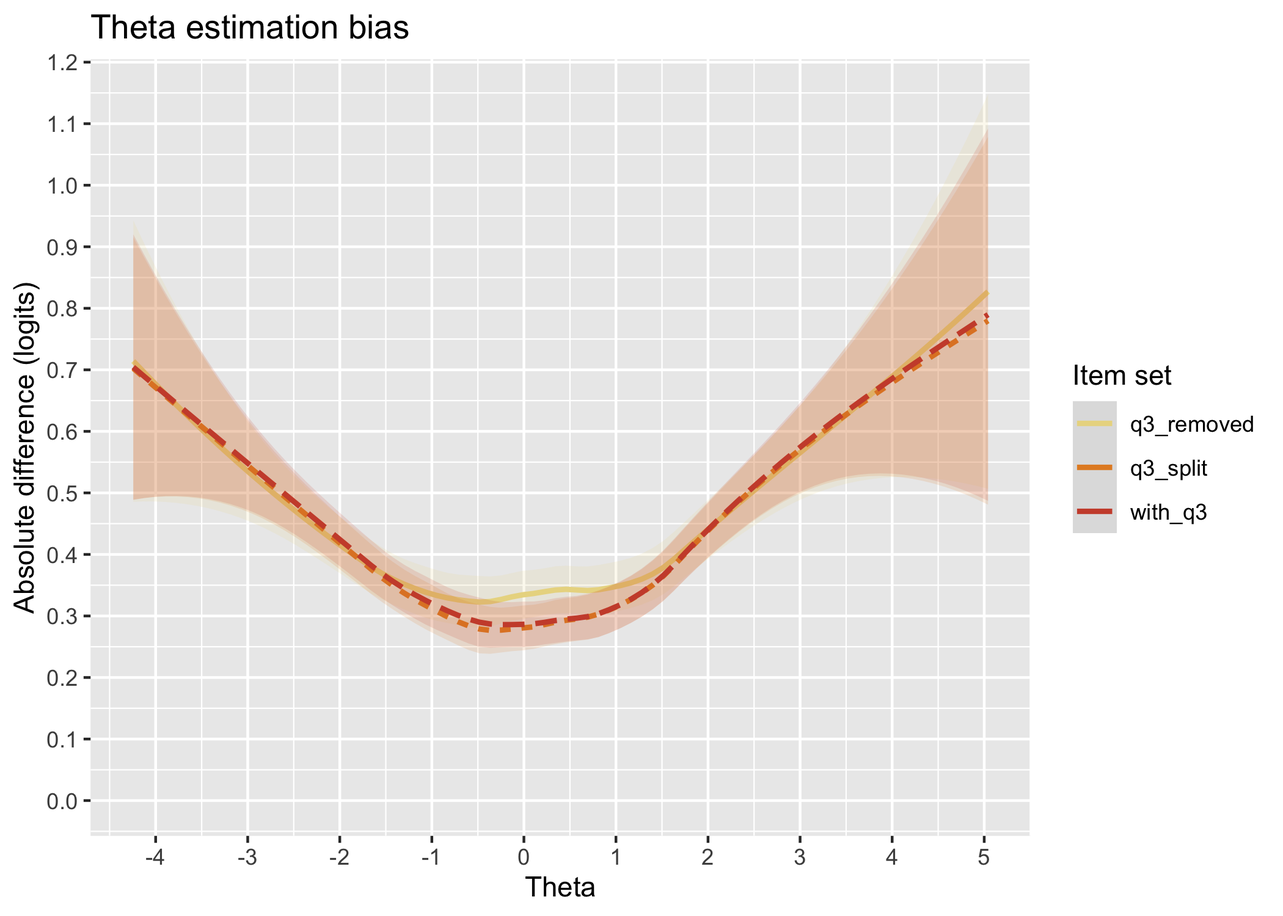
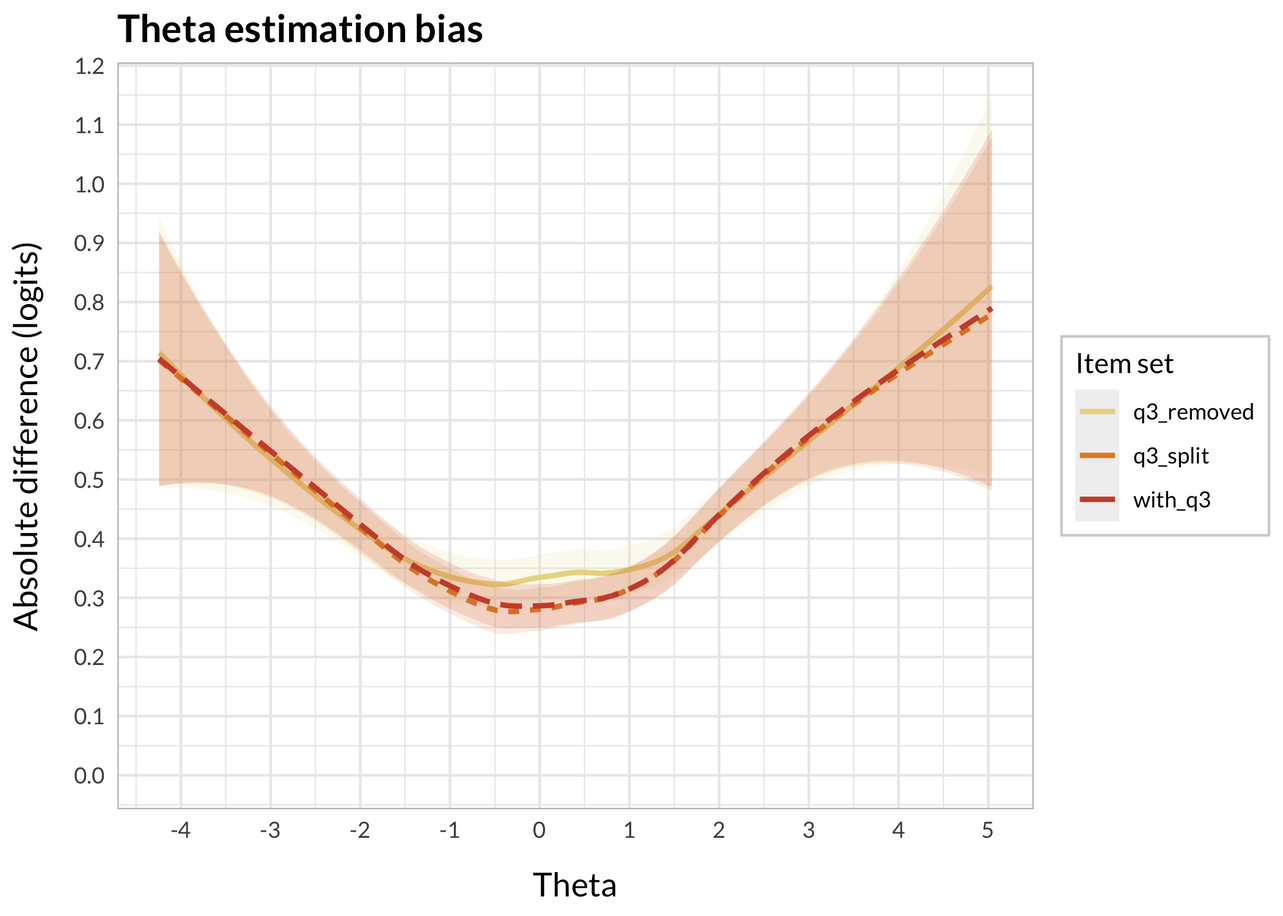
fig theme

diff --git a/docs/dif_magnitude.html b/docs/dif_magnitude.html
@@ -1985,7 +1985,8 @@ q10
 <span>       y <span class="op">=</span> <span class="st">"Absolute difference (logits)"</span><span class="op">)</span> <span class="op">+</span></span>
 <span>  <span class="fu"><a href="https://ggplot2.tidyverse.org/reference/guides.html">guides</a></span><span class="op">(</span>fill <span class="op">=</span> <span class="st">"none"</span>, linetype <span class="op">=</span> <span class="st">"none"</span><span class="op">)</span> <span class="op">+</span></span>
 <span>  <span class="fu"><a href="https://ggplot2.tidyverse.org/reference/scale_continuous.html">scale_x_continuous</a></span><span class="op">(</span>breaks <span class="op">=</span> <span class="fu"><a href="https://rdrr.io/r/base/seq.html">seq</a></span><span class="op">(</span><span class="op">-</span><span class="fl">5</span>,<span class="fl">5</span>,<span class="fl">1</span><span class="op">)</span><span class="op">)</span> <span class="op">+</span></span>
-<span>  <span class="fu"><a href="https://ggplot2.tidyverse.org/reference/scale_continuous.html">scale_y_continuous</a></span><span class="op">(</span>limits <span class="op">=</span> <span class="fu"><a href="https://rdrr.io/r/base/c.html">c</a></span><span class="op">(</span><span class="fl">0</span>,<span class="cn">NA</span><span class="op">)</span>, breaks <span class="op">=</span> <span class="fu"><a href="https://rdrr.io/r/base/seq.html">seq</a></span><span class="op">(</span><span class="fl">0</span>,<span class="fl">1.2</span>,<span class="fl">0.1</span><span class="op">)</span><span class="op">)</span></span></code><button title="Copy to Clipboard" class="code-copy-button"><i class="bi"></i></button></pre></div>
+<span>  <span class="fu"><a href="https://ggplot2.tidyverse.org/reference/scale_continuous.html">scale_y_continuous</a></span><span class="op">(</span>limits <span class="op">=</span> <span class="fu"><a href="https://rdrr.io/r/base/c.html">c</a></span><span class="op">(</span><span class="fl">0</span>,<span class="cn">NA</span><span class="op">)</span>, breaks <span class="op">=</span> <span class="fu"><a href="https://rdrr.io/r/base/seq.html">seq</a></span><span class="op">(</span><span class="fl">0</span>,<span class="fl">1.2</span>,<span class="fl">0.1</span><span class="op">)</span><span class="op">)</span> <span class="op">+</span></span>
+<span>  <span class="fu"><a href="https://rdrr.io/pkg/RISEkbmRasch/man/theme_rise.html">theme_rise</a></span><span class="op">(</span><span class="op">)</span></span></code><button title="Copy to Clipboard" class="code-copy-button"><i class="bi"></i></button></pre></div>
 </details><div class="cell-output-display">
 <div>
 <figure class="figure"><p><img src="dif_magnitude_files/figure-html/unnamed-chunk-30-1.png" class="img-fluid figure-img" width="1050"></p>
@@ -3268,78 +3269,79 @@ window.document.addEventListener("DOMContentLoaded", function (event) {
 <span id="cb48-674"><a href="#cb48-674" aria-hidden="true" tabindex="-1"></a>       <span class="at">y =</span> <span class="st">"Absolute difference (logits)"</span>) <span class="sc">+</span></span>
 <span id="cb48-675"><a href="#cb48-675" aria-hidden="true" tabindex="-1"></a>  <span class="fu">guides</span>(<span class="at">fill =</span> <span class="st">"none"</span>, <span class="at">linetype =</span> <span class="st">"none"</span>) <span class="sc">+</span></span>
 <span id="cb48-676"><a href="#cb48-676" aria-hidden="true" tabindex="-1"></a>  <span class="fu">scale_x_continuous</span>(<span class="at">breaks =</span> <span class="fu">seq</span>(<span class="sc">-</span><span class="dv">5</span>,<span class="dv">5</span>,<span class="dv">1</span>)) <span class="sc">+</span></span>
-<span id="cb48-677"><a href="#cb48-677" aria-hidden="true" tabindex="-1"></a>  <span class="fu">scale_y_continuous</span>(<span class="at">limits =</span> <span class="fu">c</span>(<span class="dv">0</span>,<span class="cn">NA</span>), <span class="at">breaks =</span> <span class="fu">seq</span>(<span class="dv">0</span>,<span class="fl">1.2</span>,<span class="fl">0.1</span>))</span>
-<span id="cb48-678"><a href="#cb48-678" aria-hidden="true" tabindex="-1"></a><span class="in">```</span></span>
-<span id="cb48-679"><a href="#cb48-679" aria-hidden="true" tabindex="-1"></a></span>
-<span id="cb48-680"><a href="#cb48-680" aria-hidden="true" tabindex="-1"></a>Item split slightly reduces bias compared to keeping the DIF item (3), while removing item 3 increases bias from -1.5 to +1.5</span>
-<span id="cb48-681"><a href="#cb48-681" aria-hidden="true" tabindex="-1"></a></span>
-<span id="cb48-682"><a href="#cb48-682" aria-hidden="true" tabindex="-1"></a><span class="fu">### Statistical analysis</span></span>
-<span id="cb48-683"><a href="#cb48-683" aria-hidden="true" tabindex="-1"></a></span>
-<span id="cb48-684"><a href="#cb48-684" aria-hidden="true" tabindex="-1"></a>Comparing differences in theta estimation to input thetas.</span>
-<span id="cb48-685"><a href="#cb48-685" aria-hidden="true" tabindex="-1"></a></span>
-<span id="cb48-688"><a href="#cb48-688" aria-hidden="true" tabindex="-1"></a><span class="in">```{r}</span></span>
-<span id="cb48-689"><a href="#cb48-689" aria-hidden="true" tabindex="-1"></a><span class="fu">library</span>(broom)</span>
-<span id="cb48-690"><a href="#cb48-690" aria-hidden="true" tabindex="-1"></a>lm_all <span class="ot">&lt;-</span> c <span class="sc">%&gt;%</span> </span>
-<span id="cb48-691"><a href="#cb48-691" aria-hidden="true" tabindex="-1"></a>  <span class="fu">select</span>(<span class="fu">c</span>(together_RIestThetas,input_thetas)) <span class="sc">%&gt;%</span></span>
-<span id="cb48-692"><a href="#cb48-692" aria-hidden="true" tabindex="-1"></a>  <span class="fu">pivot_longer</span>(<span class="fu">everything</span>()) <span class="sc">%&gt;%</span> </span>
-<span id="cb48-693"><a href="#cb48-693" aria-hidden="true" tabindex="-1"></a>  <span class="fu">lm</span>(value <span class="sc">~</span> name, <span class="at">data =</span> .)</span>
-<span id="cb48-694"><a href="#cb48-694" aria-hidden="true" tabindex="-1"></a></span>
-<span id="cb48-695"><a href="#cb48-695" aria-hidden="true" tabindex="-1"></a>lm_q3rem <span class="ot">&lt;-</span> c <span class="sc">%&gt;%</span> </span>
-<span id="cb48-696"><a href="#cb48-696" aria-hidden="true" tabindex="-1"></a>  <span class="fu">select</span>(<span class="fu">c</span>(together_q3_rem,input_thetas)) <span class="sc">%&gt;%</span></span>
-<span id="cb48-697"><a href="#cb48-697" aria-hidden="true" tabindex="-1"></a>  <span class="fu">pivot_longer</span>(<span class="fu">everything</span>()) <span class="sc">%&gt;%</span> </span>
-<span id="cb48-698"><a href="#cb48-698" aria-hidden="true" tabindex="-1"></a>  <span class="fu">lm</span>(value <span class="sc">~</span> name, <span class="at">data =</span> .)</span>
-<span id="cb48-699"><a href="#cb48-699" aria-hidden="true" tabindex="-1"></a></span>
-<span id="cb48-700"><a href="#cb48-700" aria-hidden="true" tabindex="-1"></a>lm_q3split <span class="ot">&lt;-</span> c <span class="sc">%&gt;%</span> </span>
-<span id="cb48-701"><a href="#cb48-701" aria-hidden="true" tabindex="-1"></a>  <span class="fu">select</span>(<span class="fu">c</span>(separate_catR,input_thetas)) <span class="sc">%&gt;%</span></span>
-<span id="cb48-702"><a href="#cb48-702" aria-hidden="true" tabindex="-1"></a>  <span class="fu">pivot_longer</span>(<span class="fu">everything</span>()) <span class="sc">%&gt;%</span> </span>
-<span id="cb48-703"><a href="#cb48-703" aria-hidden="true" tabindex="-1"></a>  <span class="fu">lm</span>(value <span class="sc">~</span> name, <span class="at">data =</span> .)</span>
-<span id="cb48-704"><a href="#cb48-704" aria-hidden="true" tabindex="-1"></a></span>
-<span id="cb48-705"><a href="#cb48-705" aria-hidden="true" tabindex="-1"></a><span class="fu">anova</span>(lm_all,lm_q3rem,lm_q3split)</span>
-<span id="cb48-706"><a href="#cb48-706" aria-hidden="true" tabindex="-1"></a></span>
-<span id="cb48-707"><a href="#cb48-707" aria-hidden="true" tabindex="-1"></a><span class="fu">bind_rows</span>(<span class="fu">glance</span>(lm_all),</span>
-<span id="cb48-708"><a href="#cb48-708" aria-hidden="true" tabindex="-1"></a>          <span class="fu">glance</span>(lm_q3rem),</span>
-<span id="cb48-709"><a href="#cb48-709" aria-hidden="true" tabindex="-1"></a>          <span class="fu">glance</span>(lm_q3split)) <span class="sc">%&gt;%</span> </span>
-<span id="cb48-710"><a href="#cb48-710" aria-hidden="true" tabindex="-1"></a>  <span class="fu">add_column</span>(<span class="at">Model =</span> <span class="fu">c</span>(<span class="st">"All items"</span>,<span class="st">"Q3 removed"</span>,<span class="st">"Q3 split"</span>)) <span class="sc">%&gt;%</span> </span>
-<span id="cb48-711"><a href="#cb48-711" aria-hidden="true" tabindex="-1"></a>  <span class="fu">select</span>(Model,statistic,p.value,logLik,AIC,BIC,deviance)</span>
-<span id="cb48-712"><a href="#cb48-712" aria-hidden="true" tabindex="-1"></a></span>
-<span id="cb48-713"><a href="#cb48-713" aria-hidden="true" tabindex="-1"></a><span class="in">```</span></span>
-<span id="cb48-714"><a href="#cb48-714" aria-hidden="true" tabindex="-1"></a></span>
-<span id="cb48-715"><a href="#cb48-715" aria-hidden="true" tabindex="-1"></a>Same analysis, but limited to the theta range from -1.5 to +1.5 logits, where differences seem the biggest.</span>
-<span id="cb48-716"><a href="#cb48-716" aria-hidden="true" tabindex="-1"></a></span>
-<span id="cb48-719"><a href="#cb48-719" aria-hidden="true" tabindex="-1"></a><span class="in">```{r}</span></span>
-<span id="cb48-720"><a href="#cb48-720" aria-hidden="true" tabindex="-1"></a>lm_all <span class="ot">&lt;-</span> c <span class="sc">%&gt;%</span> </span>
-<span id="cb48-721"><a href="#cb48-721" aria-hidden="true" tabindex="-1"></a>  <span class="fu">select</span>(<span class="fu">c</span>(together_RIestThetas,input_thetas)) <span class="sc">%&gt;%</span></span>
-<span id="cb48-722"><a href="#cb48-722" aria-hidden="true" tabindex="-1"></a>  <span class="fu">filter</span>(input_thetas <span class="sc">&gt;</span> <span class="sc">-</span><span class="fl">1.5</span> <span class="sc">&amp;</span> input_thetas <span class="sc">&lt;</span> <span class="fl">1.5</span>) <span class="sc">%&gt;%</span> </span>
-<span id="cb48-723"><a href="#cb48-723" aria-hidden="true" tabindex="-1"></a>  <span class="fu">pivot_longer</span>(<span class="fu">everything</span>()) <span class="sc">%&gt;%</span> </span>
-<span id="cb48-724"><a href="#cb48-724" aria-hidden="true" tabindex="-1"></a>  <span class="fu">lm</span>(value <span class="sc">~</span> name, <span class="at">data =</span> .)</span>
-<span id="cb48-725"><a href="#cb48-725" aria-hidden="true" tabindex="-1"></a></span>
-<span id="cb48-726"><a href="#cb48-726" aria-hidden="true" tabindex="-1"></a>lm_q3rem <span class="ot">&lt;-</span> c <span class="sc">%&gt;%</span> </span>
-<span id="cb48-727"><a href="#cb48-727" aria-hidden="true" tabindex="-1"></a>  <span class="fu">select</span>(<span class="fu">c</span>(together_q3_rem,input_thetas)) <span class="sc">%&gt;%</span></span>
-<span id="cb48-728"><a href="#cb48-728" aria-hidden="true" tabindex="-1"></a>  <span class="fu">filter</span>(input_thetas <span class="sc">&gt;</span> <span class="sc">-</span><span class="fl">1.5</span> <span class="sc">&amp;</span> input_thetas <span class="sc">&lt;</span> <span class="fl">1.5</span>) <span class="sc">%&gt;%</span> </span>
-<span id="cb48-729"><a href="#cb48-729" aria-hidden="true" tabindex="-1"></a>  <span class="fu">pivot_longer</span>(<span class="fu">everything</span>()) <span class="sc">%&gt;%</span> </span>
-<span id="cb48-730"><a href="#cb48-730" aria-hidden="true" tabindex="-1"></a>  <span class="fu">lm</span>(value <span class="sc">~</span> name, <span class="at">data =</span> .)</span>
-<span id="cb48-731"><a href="#cb48-731" aria-hidden="true" tabindex="-1"></a></span>
-<span id="cb48-732"><a href="#cb48-732" aria-hidden="true" tabindex="-1"></a>lm_q3split <span class="ot">&lt;-</span> c <span class="sc">%&gt;%</span> </span>
-<span id="cb48-733"><a href="#cb48-733" aria-hidden="true" tabindex="-1"></a>  <span class="fu">select</span>(<span class="fu">c</span>(separate_catR,input_thetas)) <span class="sc">%&gt;%</span></span>
-<span id="cb48-734"><a href="#cb48-734" aria-hidden="true" tabindex="-1"></a>  <span class="fu">filter</span>(input_thetas <span class="sc">&gt;</span> <span class="sc">-</span><span class="fl">1.5</span> <span class="sc">&amp;</span> input_thetas <span class="sc">&lt;</span> <span class="fl">1.5</span>) <span class="sc">%&gt;%</span> </span>
-<span id="cb48-735"><a href="#cb48-735" aria-hidden="true" tabindex="-1"></a>  <span class="fu">pivot_longer</span>(<span class="fu">everything</span>()) <span class="sc">%&gt;%</span> </span>
-<span id="cb48-736"><a href="#cb48-736" aria-hidden="true" tabindex="-1"></a>  <span class="fu">lm</span>(value <span class="sc">~</span> name, <span class="at">data =</span> .)</span>
-<span id="cb48-737"><a href="#cb48-737" aria-hidden="true" tabindex="-1"></a></span>
-<span id="cb48-738"><a href="#cb48-738" aria-hidden="true" tabindex="-1"></a><span class="fu">anova</span>(lm_all,lm_q3rem,lm_q3split)</span>
-<span id="cb48-739"><a href="#cb48-739" aria-hidden="true" tabindex="-1"></a></span>
-<span id="cb48-740"><a href="#cb48-740" aria-hidden="true" tabindex="-1"></a><span class="fu">bind_rows</span>(<span class="fu">glance</span>(lm_all),</span>
-<span id="cb48-741"><a href="#cb48-741" aria-hidden="true" tabindex="-1"></a>          <span class="fu">glance</span>(lm_q3rem),</span>
-<span id="cb48-742"><a href="#cb48-742" aria-hidden="true" tabindex="-1"></a>          <span class="fu">glance</span>(lm_q3split)) <span class="sc">%&gt;%</span> </span>
-<span id="cb48-743"><a href="#cb48-743" aria-hidden="true" tabindex="-1"></a>  <span class="fu">add_column</span>(<span class="at">Model =</span> <span class="fu">c</span>(<span class="st">"All items"</span>,<span class="st">"Q3 removed"</span>,<span class="st">"Q3 split"</span>)) <span class="sc">%&gt;%</span> </span>
-<span id="cb48-744"><a href="#cb48-744" aria-hidden="true" tabindex="-1"></a>  <span class="fu">select</span>(Model,statistic,p.value,logLik,AIC,BIC,deviance)</span>
-<span id="cb48-745"><a href="#cb48-745" aria-hidden="true" tabindex="-1"></a></span>
-<span id="cb48-746"><a href="#cb48-746" aria-hidden="true" tabindex="-1"></a><span class="in">```</span></span>
-<span id="cb48-747"><a href="#cb48-747" aria-hidden="true" tabindex="-1"></a></span>
-<span id="cb48-748"><a href="#cb48-748" aria-hidden="true" tabindex="-1"></a><span class="fu">## Session info</span></span>
-<span id="cb48-749"><a href="#cb48-749" aria-hidden="true" tabindex="-1"></a></span>
-<span id="cb48-752"><a href="#cb48-752" aria-hidden="true" tabindex="-1"></a><span class="in">```{r}</span></span>
-<span id="cb48-753"><a href="#cb48-753" aria-hidden="true" tabindex="-1"></a><span class="fu">sessionInfo</span>()</span>
-<span id="cb48-754"><a href="#cb48-754" aria-hidden="true" tabindex="-1"></a><span class="in">```</span></span>
+<span id="cb48-677"><a href="#cb48-677" aria-hidden="true" tabindex="-1"></a>  <span class="fu">scale_y_continuous</span>(<span class="at">limits =</span> <span class="fu">c</span>(<span class="dv">0</span>,<span class="cn">NA</span>), <span class="at">breaks =</span> <span class="fu">seq</span>(<span class="dv">0</span>,<span class="fl">1.2</span>,<span class="fl">0.1</span>)) <span class="sc">+</span></span>
+<span id="cb48-678"><a href="#cb48-678" aria-hidden="true" tabindex="-1"></a>  <span class="fu">theme_rise</span>()</span>
+<span id="cb48-679"><a href="#cb48-679" aria-hidden="true" tabindex="-1"></a><span class="in">```</span></span>
+<span id="cb48-680"><a href="#cb48-680" aria-hidden="true" tabindex="-1"></a></span>
+<span id="cb48-681"><a href="#cb48-681" aria-hidden="true" tabindex="-1"></a>Item split slightly reduces bias compared to keeping the DIF item (3), while removing item 3 increases bias from -1.5 to +1.5</span>
+<span id="cb48-682"><a href="#cb48-682" aria-hidden="true" tabindex="-1"></a></span>
+<span id="cb48-683"><a href="#cb48-683" aria-hidden="true" tabindex="-1"></a><span class="fu">### Statistical analysis</span></span>
+<span id="cb48-684"><a href="#cb48-684" aria-hidden="true" tabindex="-1"></a></span>
+<span id="cb48-685"><a href="#cb48-685" aria-hidden="true" tabindex="-1"></a>Comparing differences in theta estimation to input thetas.</span>
+<span id="cb48-686"><a href="#cb48-686" aria-hidden="true" tabindex="-1"></a></span>
+<span id="cb48-689"><a href="#cb48-689" aria-hidden="true" tabindex="-1"></a><span class="in">```{r}</span></span>
+<span id="cb48-690"><a href="#cb48-690" aria-hidden="true" tabindex="-1"></a><span class="fu">library</span>(broom)</span>
+<span id="cb48-691"><a href="#cb48-691" aria-hidden="true" tabindex="-1"></a>lm_all <span class="ot">&lt;-</span> c <span class="sc">%&gt;%</span> </span>
+<span id="cb48-692"><a href="#cb48-692" aria-hidden="true" tabindex="-1"></a>  <span class="fu">select</span>(<span class="fu">c</span>(together_RIestThetas,input_thetas)) <span class="sc">%&gt;%</span></span>
+<span id="cb48-693"><a href="#cb48-693" aria-hidden="true" tabindex="-1"></a>  <span class="fu">pivot_longer</span>(<span class="fu">everything</span>()) <span class="sc">%&gt;%</span> </span>
+<span id="cb48-694"><a href="#cb48-694" aria-hidden="true" tabindex="-1"></a>  <span class="fu">lm</span>(value <span class="sc">~</span> name, <span class="at">data =</span> .)</span>
+<span id="cb48-695"><a href="#cb48-695" aria-hidden="true" tabindex="-1"></a></span>
+<span id="cb48-696"><a href="#cb48-696" aria-hidden="true" tabindex="-1"></a>lm_q3rem <span class="ot">&lt;-</span> c <span class="sc">%&gt;%</span> </span>
+<span id="cb48-697"><a href="#cb48-697" aria-hidden="true" tabindex="-1"></a>  <span class="fu">select</span>(<span class="fu">c</span>(together_q3_rem,input_thetas)) <span class="sc">%&gt;%</span></span>
+<span id="cb48-698"><a href="#cb48-698" aria-hidden="true" tabindex="-1"></a>  <span class="fu">pivot_longer</span>(<span class="fu">everything</span>()) <span class="sc">%&gt;%</span> </span>
+<span id="cb48-699"><a href="#cb48-699" aria-hidden="true" tabindex="-1"></a>  <span class="fu">lm</span>(value <span class="sc">~</span> name, <span class="at">data =</span> .)</span>
+<span id="cb48-700"><a href="#cb48-700" aria-hidden="true" tabindex="-1"></a></span>
+<span id="cb48-701"><a href="#cb48-701" aria-hidden="true" tabindex="-1"></a>lm_q3split <span class="ot">&lt;-</span> c <span class="sc">%&gt;%</span> </span>
+<span id="cb48-702"><a href="#cb48-702" aria-hidden="true" tabindex="-1"></a>  <span class="fu">select</span>(<span class="fu">c</span>(separate_catR,input_thetas)) <span class="sc">%&gt;%</span></span>
+<span id="cb48-703"><a href="#cb48-703" aria-hidden="true" tabindex="-1"></a>  <span class="fu">pivot_longer</span>(<span class="fu">everything</span>()) <span class="sc">%&gt;%</span> </span>
+<span id="cb48-704"><a href="#cb48-704" aria-hidden="true" tabindex="-1"></a>  <span class="fu">lm</span>(value <span class="sc">~</span> name, <span class="at">data =</span> .)</span>
+<span id="cb48-705"><a href="#cb48-705" aria-hidden="true" tabindex="-1"></a></span>
+<span id="cb48-706"><a href="#cb48-706" aria-hidden="true" tabindex="-1"></a><span class="fu">anova</span>(lm_all,lm_q3rem,lm_q3split)</span>
+<span id="cb48-707"><a href="#cb48-707" aria-hidden="true" tabindex="-1"></a></span>
+<span id="cb48-708"><a href="#cb48-708" aria-hidden="true" tabindex="-1"></a><span class="fu">bind_rows</span>(<span class="fu">glance</span>(lm_all),</span>
+<span id="cb48-709"><a href="#cb48-709" aria-hidden="true" tabindex="-1"></a>          <span class="fu">glance</span>(lm_q3rem),</span>
+<span id="cb48-710"><a href="#cb48-710" aria-hidden="true" tabindex="-1"></a>          <span class="fu">glance</span>(lm_q3split)) <span class="sc">%&gt;%</span> </span>
+<span id="cb48-711"><a href="#cb48-711" aria-hidden="true" tabindex="-1"></a>  <span class="fu">add_column</span>(<span class="at">Model =</span> <span class="fu">c</span>(<span class="st">"All items"</span>,<span class="st">"Q3 removed"</span>,<span class="st">"Q3 split"</span>)) <span class="sc">%&gt;%</span> </span>
+<span id="cb48-712"><a href="#cb48-712" aria-hidden="true" tabindex="-1"></a>  <span class="fu">select</span>(Model,statistic,p.value,logLik,AIC,BIC,deviance)</span>
+<span id="cb48-713"><a href="#cb48-713" aria-hidden="true" tabindex="-1"></a></span>
+<span id="cb48-714"><a href="#cb48-714" aria-hidden="true" tabindex="-1"></a><span class="in">```</span></span>
+<span id="cb48-715"><a href="#cb48-715" aria-hidden="true" tabindex="-1"></a></span>
+<span id="cb48-716"><a href="#cb48-716" aria-hidden="true" tabindex="-1"></a>Same analysis, but limited to the theta range from -1.5 to +1.5 logits, where differences seem the biggest.</span>
+<span id="cb48-717"><a href="#cb48-717" aria-hidden="true" tabindex="-1"></a></span>
+<span id="cb48-720"><a href="#cb48-720" aria-hidden="true" tabindex="-1"></a><span class="in">```{r}</span></span>
+<span id="cb48-721"><a href="#cb48-721" aria-hidden="true" tabindex="-1"></a>lm_all <span class="ot">&lt;-</span> c <span class="sc">%&gt;%</span> </span>
+<span id="cb48-722"><a href="#cb48-722" aria-hidden="true" tabindex="-1"></a>  <span class="fu">select</span>(<span class="fu">c</span>(together_RIestThetas,input_thetas)) <span class="sc">%&gt;%</span></span>
+<span id="cb48-723"><a href="#cb48-723" aria-hidden="true" tabindex="-1"></a>  <span class="fu">filter</span>(input_thetas <span class="sc">&gt;</span> <span class="sc">-</span><span class="fl">1.5</span> <span class="sc">&amp;</span> input_thetas <span class="sc">&lt;</span> <span class="fl">1.5</span>) <span class="sc">%&gt;%</span> </span>
+<span id="cb48-724"><a href="#cb48-724" aria-hidden="true" tabindex="-1"></a>  <span class="fu">pivot_longer</span>(<span class="fu">everything</span>()) <span class="sc">%&gt;%</span> </span>
+<span id="cb48-725"><a href="#cb48-725" aria-hidden="true" tabindex="-1"></a>  <span class="fu">lm</span>(value <span class="sc">~</span> name, <span class="at">data =</span> .)</span>
+<span id="cb48-726"><a href="#cb48-726" aria-hidden="true" tabindex="-1"></a></span>
+<span id="cb48-727"><a href="#cb48-727" aria-hidden="true" tabindex="-1"></a>lm_q3rem <span class="ot">&lt;-</span> c <span class="sc">%&gt;%</span> </span>
+<span id="cb48-728"><a href="#cb48-728" aria-hidden="true" tabindex="-1"></a>  <span class="fu">select</span>(<span class="fu">c</span>(together_q3_rem,input_thetas)) <span class="sc">%&gt;%</span></span>
+<span id="cb48-729"><a href="#cb48-729" aria-hidden="true" tabindex="-1"></a>  <span class="fu">filter</span>(input_thetas <span class="sc">&gt;</span> <span class="sc">-</span><span class="fl">1.5</span> <span class="sc">&amp;</span> input_thetas <span class="sc">&lt;</span> <span class="fl">1.5</span>) <span class="sc">%&gt;%</span> </span>
+<span id="cb48-730"><a href="#cb48-730" aria-hidden="true" tabindex="-1"></a>  <span class="fu">pivot_longer</span>(<span class="fu">everything</span>()) <span class="sc">%&gt;%</span> </span>
+<span id="cb48-731"><a href="#cb48-731" aria-hidden="true" tabindex="-1"></a>  <span class="fu">lm</span>(value <span class="sc">~</span> name, <span class="at">data =</span> .)</span>
+<span id="cb48-732"><a href="#cb48-732" aria-hidden="true" tabindex="-1"></a></span>
+<span id="cb48-733"><a href="#cb48-733" aria-hidden="true" tabindex="-1"></a>lm_q3split <span class="ot">&lt;-</span> c <span class="sc">%&gt;%</span> </span>
+<span id="cb48-734"><a href="#cb48-734" aria-hidden="true" tabindex="-1"></a>  <span class="fu">select</span>(<span class="fu">c</span>(separate_catR,input_thetas)) <span class="sc">%&gt;%</span></span>
+<span id="cb48-735"><a href="#cb48-735" aria-hidden="true" tabindex="-1"></a>  <span class="fu">filter</span>(input_thetas <span class="sc">&gt;</span> <span class="sc">-</span><span class="fl">1.5</span> <span class="sc">&amp;</span> input_thetas <span class="sc">&lt;</span> <span class="fl">1.5</span>) <span class="sc">%&gt;%</span> </span>
+<span id="cb48-736"><a href="#cb48-736" aria-hidden="true" tabindex="-1"></a>  <span class="fu">pivot_longer</span>(<span class="fu">everything</span>()) <span class="sc">%&gt;%</span> </span>
+<span id="cb48-737"><a href="#cb48-737" aria-hidden="true" tabindex="-1"></a>  <span class="fu">lm</span>(value <span class="sc">~</span> name, <span class="at">data =</span> .)</span>
+<span id="cb48-738"><a href="#cb48-738" aria-hidden="true" tabindex="-1"></a></span>
+<span id="cb48-739"><a href="#cb48-739" aria-hidden="true" tabindex="-1"></a><span class="fu">anova</span>(lm_all,lm_q3rem,lm_q3split)</span>
+<span id="cb48-740"><a href="#cb48-740" aria-hidden="true" tabindex="-1"></a></span>
+<span id="cb48-741"><a href="#cb48-741" aria-hidden="true" tabindex="-1"></a><span class="fu">bind_rows</span>(<span class="fu">glance</span>(lm_all),</span>
+<span id="cb48-742"><a href="#cb48-742" aria-hidden="true" tabindex="-1"></a>          <span class="fu">glance</span>(lm_q3rem),</span>
+<span id="cb48-743"><a href="#cb48-743" aria-hidden="true" tabindex="-1"></a>          <span class="fu">glance</span>(lm_q3split)) <span class="sc">%&gt;%</span> </span>
+<span id="cb48-744"><a href="#cb48-744" aria-hidden="true" tabindex="-1"></a>  <span class="fu">add_column</span>(<span class="at">Model =</span> <span class="fu">c</span>(<span class="st">"All items"</span>,<span class="st">"Q3 removed"</span>,<span class="st">"Q3 split"</span>)) <span class="sc">%&gt;%</span> </span>
+<span id="cb48-745"><a href="#cb48-745" aria-hidden="true" tabindex="-1"></a>  <span class="fu">select</span>(Model,statistic,p.value,logLik,AIC,BIC,deviance)</span>
+<span id="cb48-746"><a href="#cb48-746" aria-hidden="true" tabindex="-1"></a></span>
+<span id="cb48-747"><a href="#cb48-747" aria-hidden="true" tabindex="-1"></a><span class="in">```</span></span>
+<span id="cb48-748"><a href="#cb48-748" aria-hidden="true" tabindex="-1"></a></span>
+<span id="cb48-749"><a href="#cb48-749" aria-hidden="true" tabindex="-1"></a><span class="fu">## Session info</span></span>
+<span id="cb48-750"><a href="#cb48-750" aria-hidden="true" tabindex="-1"></a></span>
+<span id="cb48-753"><a href="#cb48-753" aria-hidden="true" tabindex="-1"></a><span class="in">```{r}</span></span>
+<span id="cb48-754"><a href="#cb48-754" aria-hidden="true" tabindex="-1"></a><span class="fu">sessionInfo</span>()</span>
+<span id="cb48-755"><a href="#cb48-755" aria-hidden="true" tabindex="-1"></a><span class="in">```</span></span>
 </code><button title="Copy to Clipboard" class="code-copy-button" data-in-quarto-modal=""><i class="bi"></i></button></pre></div>
 </div></div></div></div></div>
 </div> <!-- /content -->
